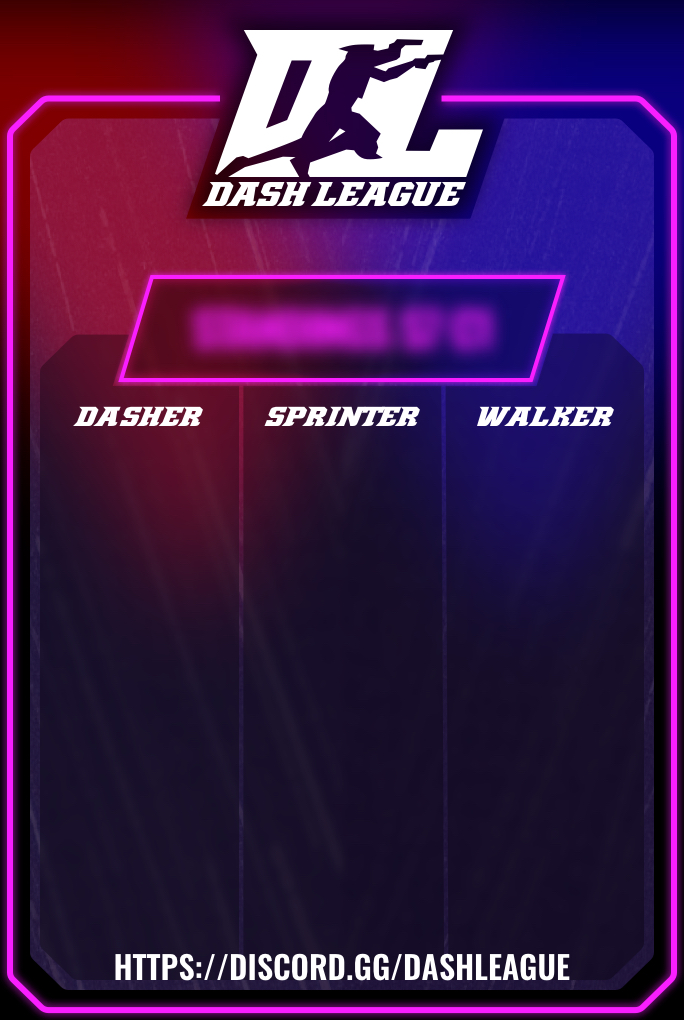
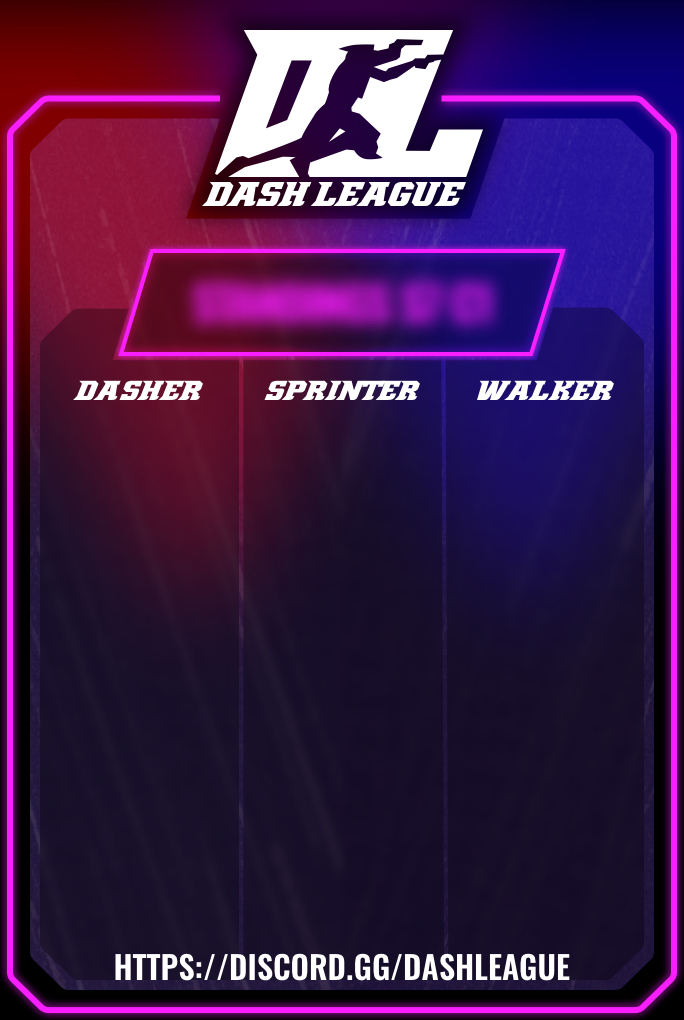
Updated HD ad

Changed region(s): [[0.0614, 0.2431, 0.9518, 0.4255]]

diff --git a/templates/page-tiers-nowrap.php b/templates/page-tiers-nowrap.php
@@ -21,14 +21,14 @@
       'stats'        => FALSE,
       'height'       => 1020,
       'width'        => 684,
-      'heading_top'  => 290,
+      'heading_top'  => 263,
       'heading_size' => 48,
       'gap'          => 0,
       'grid'         => '1fr',
       'sides'        => 41,
-      'bottom'       => 80,
-      'top'          => 430,
-      'size'         => 28,
+      'bottom'       => 90,
+      'top'          => 415,
+      'size'         => 24,
     ],
     'discord' => [
       'stats'        => TRUE,
@@ -179,25 +179,23 @@
       );
     }
   ?>
-  
-  
 </div>
 
 <script>
   var boxes = document.querySelectorAll('.box');
-
-  // boxes.forEach((box) => {
-  //   var clone = box.querySelector('.clone');
-  //
-  //   html2canvas(clone, {
-  //     width: clone.clientWidth,
-  //     height: clone.clientHeight,
-  //     scale: 1,
-  //     useCORS: true,
-  //     imageTimeout: 0,
-  //     allowTaint: true
-  //   }).then(function(canvas) {
-  //     box.appendChild(canvas);
-  //   });
-  // });
+  
+  boxes.forEach((box) => {
+    var clone = box.querySelector('.clone');
+    
+    html2canvas(clone, {
+      width: clone.clientWidth,
+      height: clone.clientHeight,
+      scale: 1,
+      useCORS: true,
+      imageTimeout: 0,
+      allowTaint: true
+    }).then(function(canvas) {
+      box.appendChild(canvas);
+    });
+  });
 </script>
